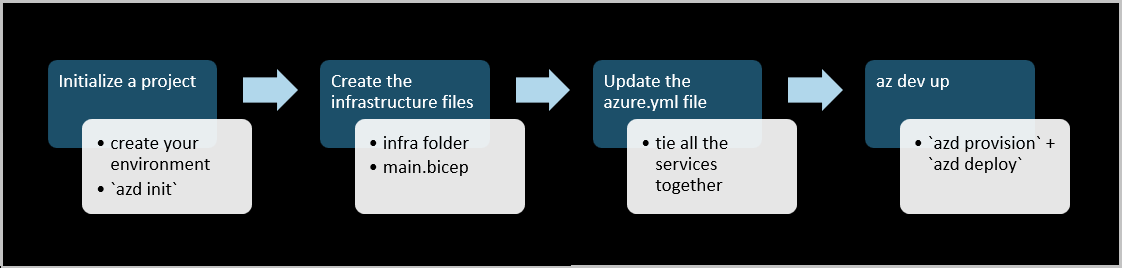
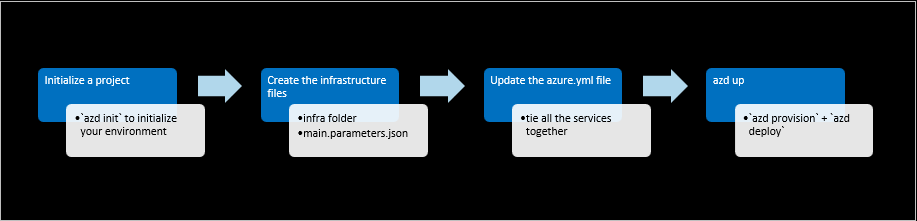
More tweaks (devify)

diff --git a/articles/azure-dev-cli/how-to-azd-enable-a-project.md b/articles/azure-dev-cli/how-to-azd-enable-a-project.md
@@ -31,13 +31,11 @@ Refer to the [azd conventions section](#azd-conventions) for complete folder str
 
 ## Your project folder
 
-Start by:
-
 ::: zone pivot="azd-create"
 
 1. Create an empty folder
 1. Change directory to your new folder
-1. Add your source code either to the root or in a subfolder called /src
+1. Add your source code either to the root or in a subfolder called /src. Note that the location of your source code needs to be the same as what you specify in your azure.yaml file.
 
 ::: zone-end
 
@@ -46,15 +44,15 @@ Start by:
 1. From this [simple Python Flask web app that is deployed to Azure App Service](/azure/app-service/quickstart-python?tabs=flask%2Cwindows%2Cazure-portal%2Cterminal-bash%2Cvscode-deploy%2Cdeploy-instructions-azportal%2Cdeploy-instructions-zip-azcli). Get a copy of the code by running:
   `git clone https://github.com/Azure-Samples/msdocs-python-flask-webapp-quickstart`
 1. (Optional) Follow instructions in the [tutorial](/azure/app-service/quickstart-python?tabs=flask%2Cwindows%2Cazure-portal%2Cterminal-bash%2Cvscode-deploy%2Cdeploy-instructions-azportal%2Cdeploy-instructions-zip-azcli#1---sample-application) to run the app locally to make sure the sample is working.
-1. Change directory to `msdocs-python-flask-webapp-quickstart` and run `azd init`. 
+1. Change directory to `msdocs-python-flask-webapp-quickstart`. 
 
 ::: zone-end
 
 ## Initialize the project
 
-Initialize the project by:
+To initialize the project:
 
-1. Running `azd init`
+1. Run `azd init`
 1. Select "Empty Template" from the list of project template
 1. Provide any name for new environment 
 1. Select an Azure location 
@@ -138,7 +136,7 @@ To add, for example, Azure App Service resources:
     
     ```
 
-1. Create **resources.bicep**. For samples, you can refer to [sample Azure App Service Bicep files](/azure/app-service/samples-bicep). Here's a sample **resources.bicep** that creates a web frontend hosted on Azure App Service:
+1. Create **resources.bicep**. For samples, you can refer to [sample Azure App Service Bicep files](/azure/app-service/samples-bicep). Here's a sample **resources.bicep** that creates a Python web frontend hosted on Azure App Service:
 
     ```json
     param location string
@@ -219,14 +217,16 @@ To deploy the app, azd needs to know more about your app. Edit the azure.yaml fi
 1. Run `azd deploy` to deploy the app to Azure
 1. Visit the end point printed to test your app.
 
+Your project is now compatible with Azure Develper CLI.
+
 ### What happened?
 
 After you run `azd deploy`:
-* The service **web** is deployed to the app service you provisioned in previous step.
+* The service **web** is deployed to the app service you provisioned in the previous step.
 
-[!NOTE] 
-* If you make any changes to your bicep file and/or code, you can run `azd up` to perform both `azd provision` and `azd deploy` in a single step. 
-* If you wish to create a new environment, run `azd env new`.
+> [!NOTE] 
+> * If you make any changes to your bicep file and/or code, you can run `azd up` to perform both `azd provision` and `azd deploy` in a single step. 
+> * If you wish to create a new environment, run `azd env new`.
 
 ## Configure a DevOps pipeline
 
@@ -243,8 +243,6 @@ To set up GitHub Action:
 ## Clean up
 
 Run `azd down` to remove all Azure resources.
-
-Your project is now Azure Dev enabled.
 
 ## azd conventions
 
